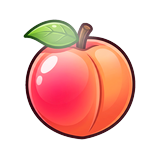
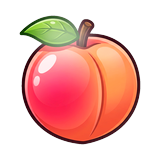
feat(ui): the rail reads at arm's length, and the fruit fills its cell
Bigger figures and larger goal pictures, two gold rules between the counters and
the sentence the way the reference divides its rail, and the painted fruit is
allowed another 10 px of the plate so a cell is not mostly margin.

Changed region(s): [[0.125, 0.0938, 0.9062, 0.9062], [0.3125, 0.4062, 0.3438, 0.4375]]

diff --git a/godot-port/tools/import_gem_art.py b/godot-port/tools/import_gem_art.py
@@ -33,7 +33,7 @@ SIZE = 160          # the plate every screen scales from
 # How much of the plate a fruit is allowed to fill. The fruit sits inside a board cell with room around
 # it, so it is deliberately smaller than the cell: a piece that touches its neighbours reads as a wall
 # of colour instead of a board of pieces.
-PIECE_BOX = 132
+PIECE_BOX = 142
 KEY_TOLERANCE = 26  # how near the field colour a pixel has to be to get filled
 
 # The eight fruits, by the id the game asks for. The first five kept their stone names when the pieces
